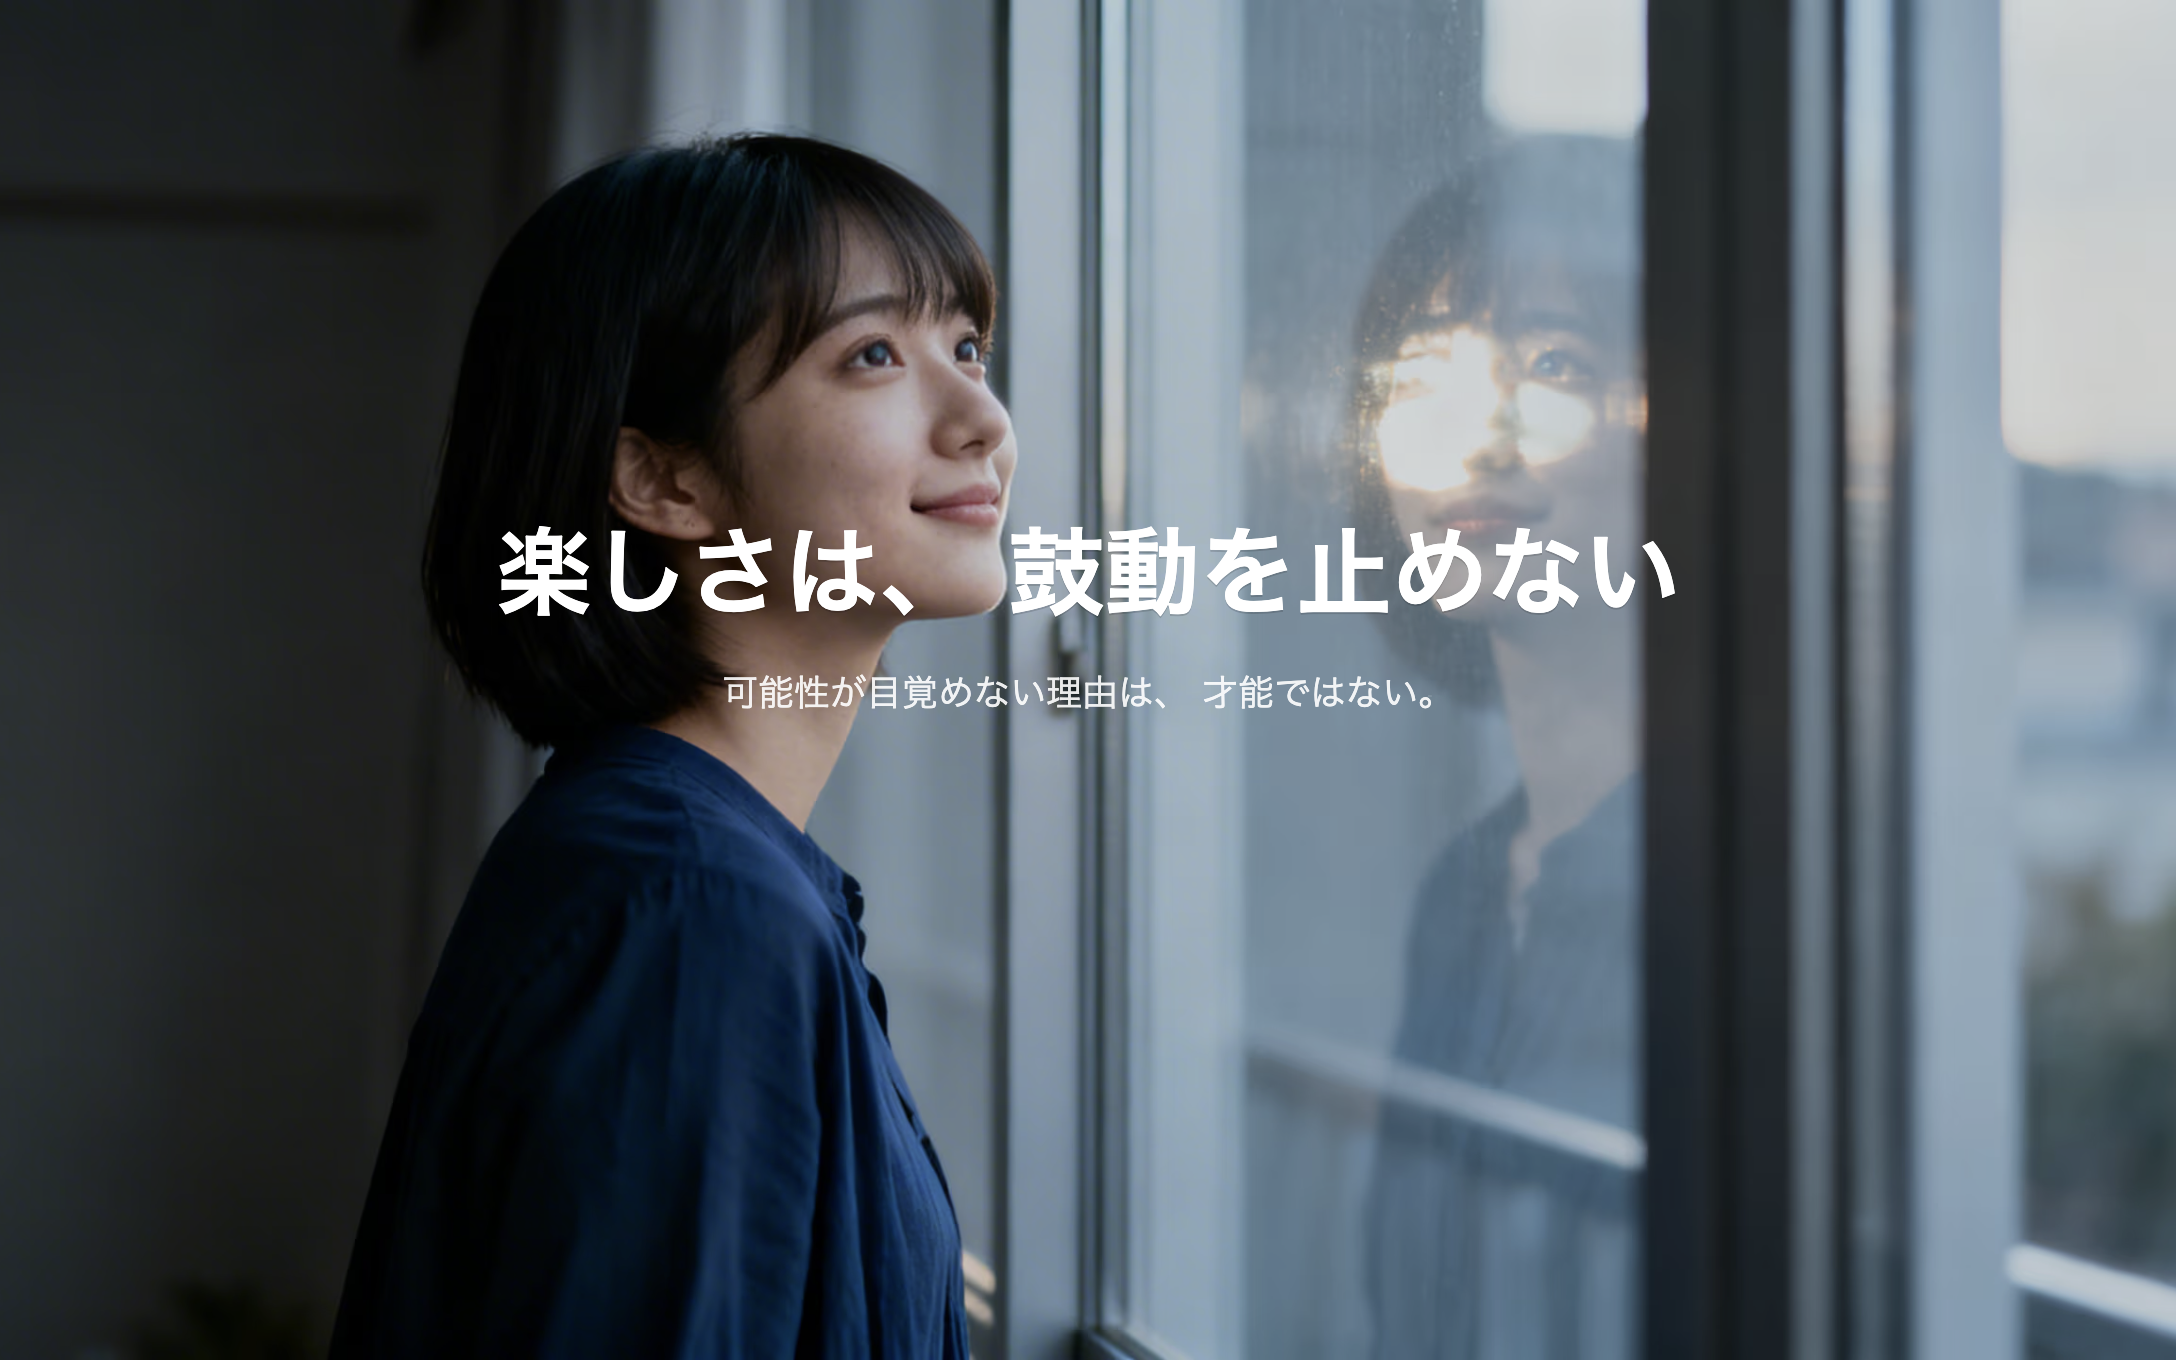
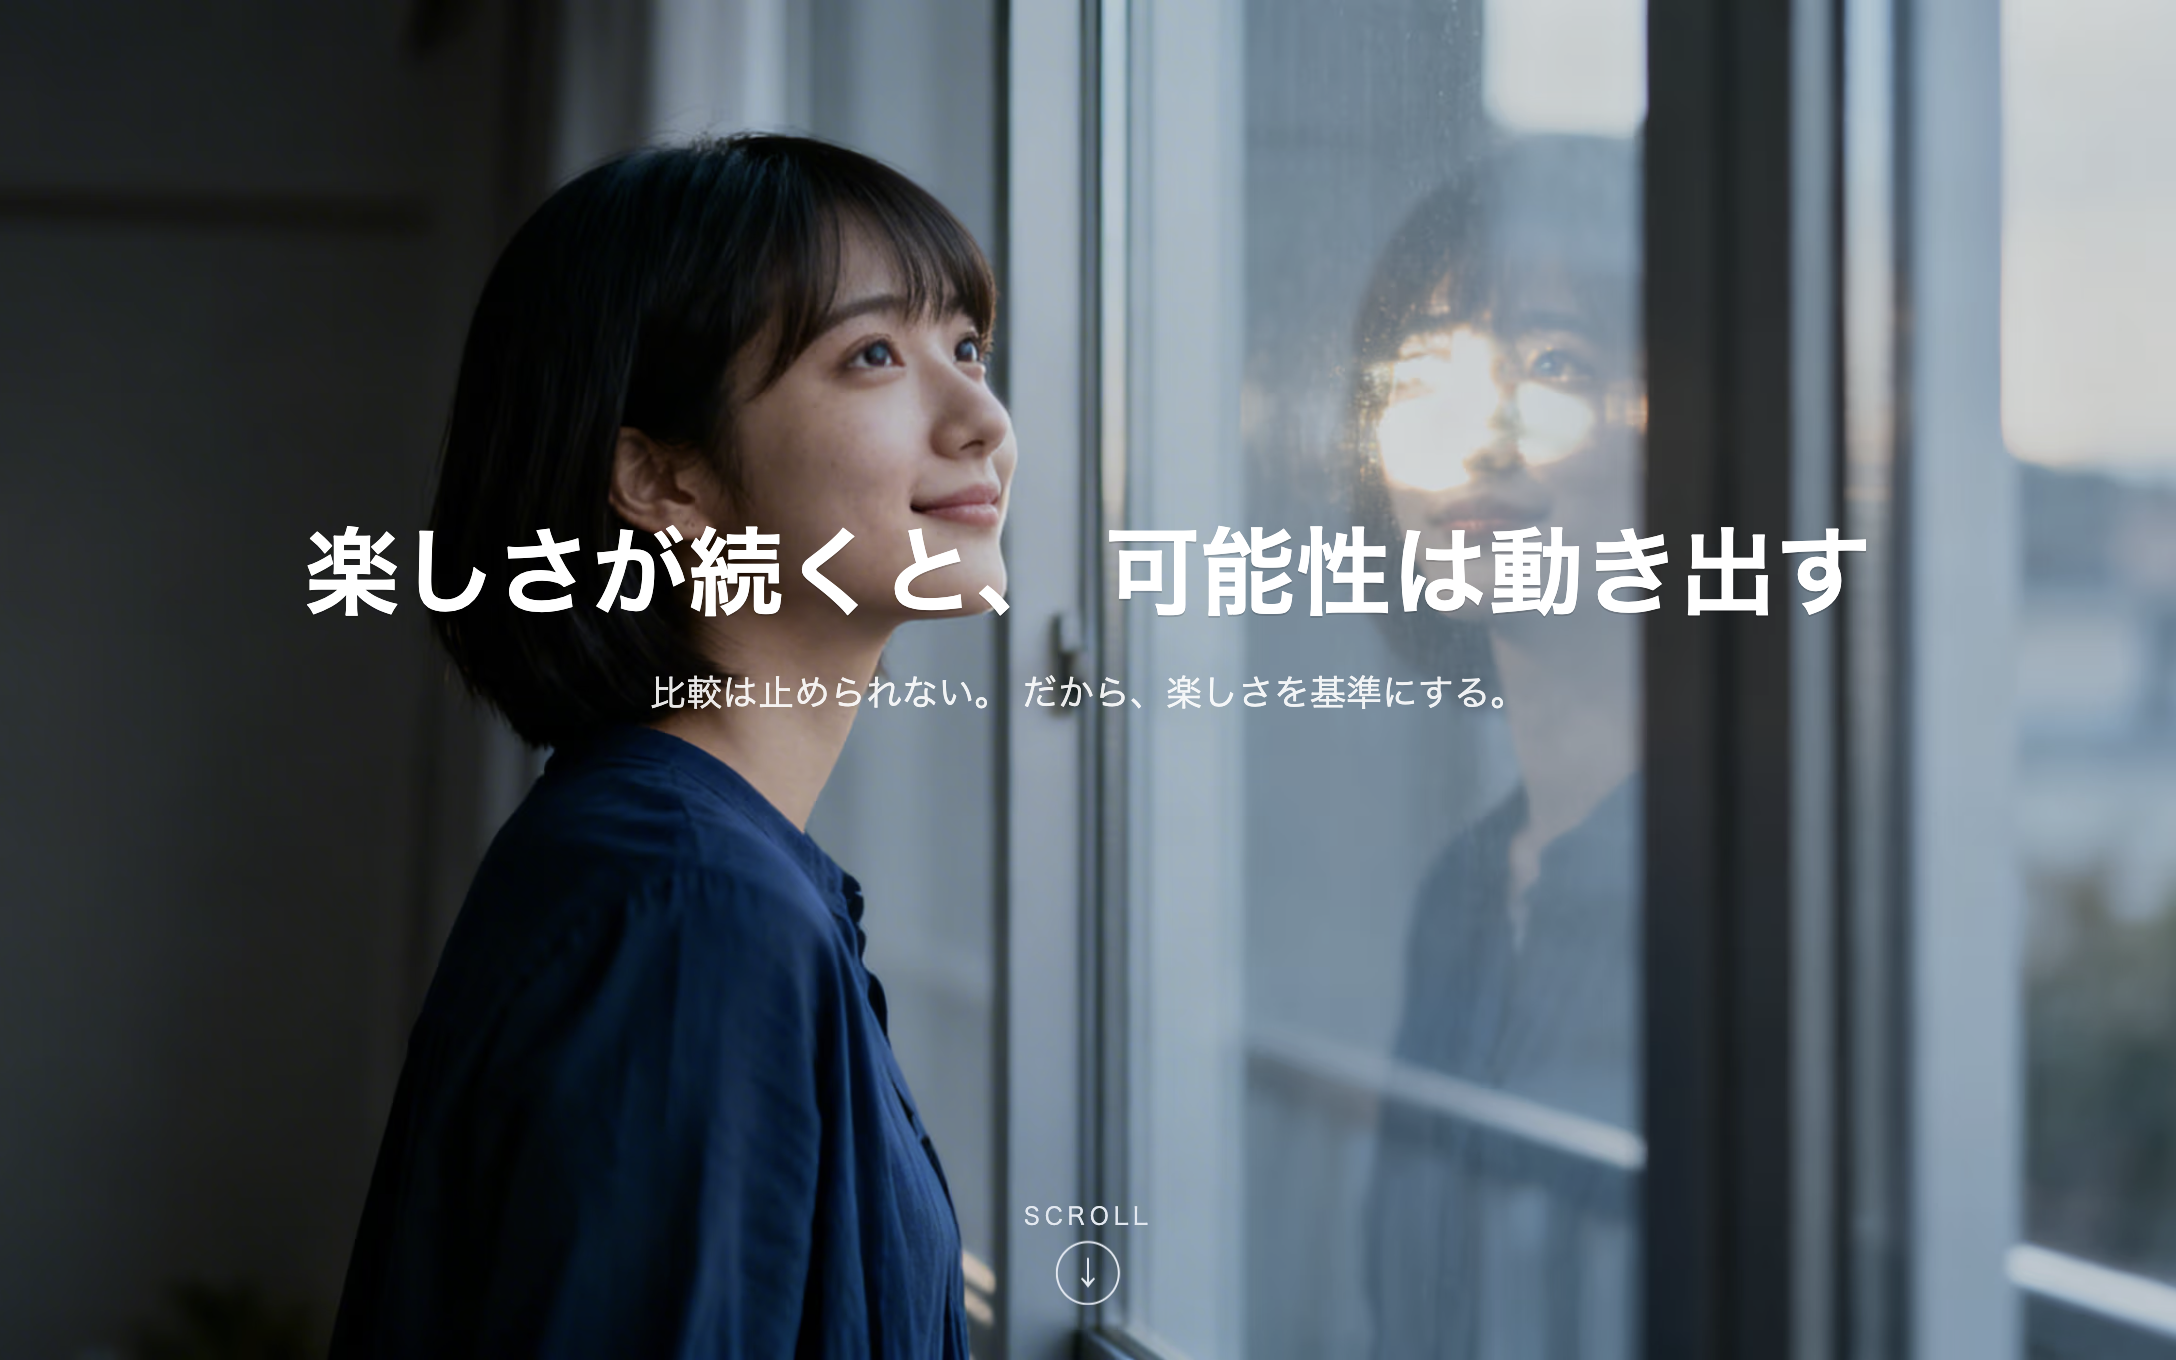
Refine philosophy page structure and messaging

Changed region(s): [[0.125, 0.3706, 0.875, 0.4632], [0.2812, 0.4941, 0.6875, 0.525]]

diff --git a/src/philosophy/index.css b/src/philosophy/index.css
@@ -103,6 +103,9 @@ body.philosophy {
     &#preface hgroup::before {
       @apply content-["PREFACE"];
     }
+    &#abstract hgroup::before {
+      @apply content-["ABSTRACT"];
+    }
     &#premise hgroup::before {
       @apply content-["PREMISE"];
     }
@@ -194,6 +197,12 @@ body.philosophy {
       > aside.explanation {
         @apply col-2 row-2;
       }
+    }
+  }
+
+  section#abstract {
+    > hgroup > h2 + p span:not(:last-child)::after {
+      @apply content-[">"] inline px-2 opacity-60;
     }
   }
 }
